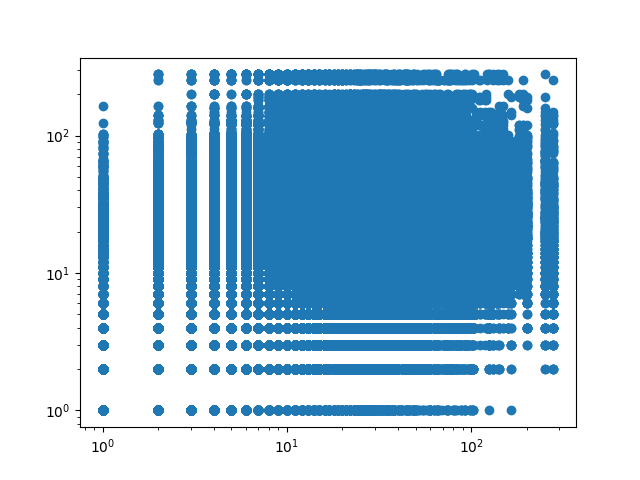
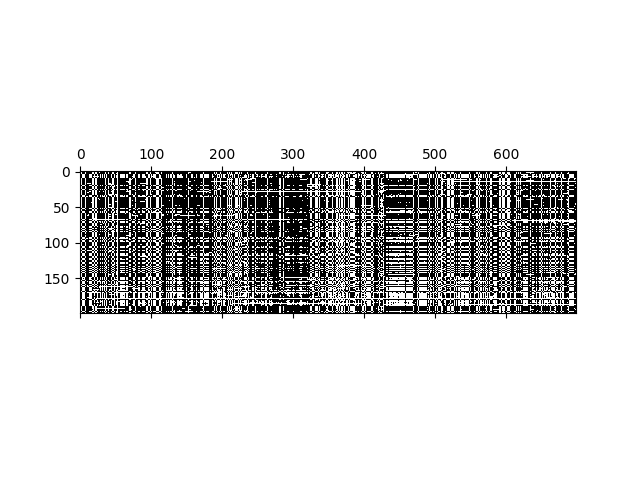
Add files via upload

diff --git a/Lab6/congress.py b/Lab6/congress.py
@@ -1,0 +1,89 @@
+#!/usr/bin/env python3
+# -*- coding: utf-8 -*-
+"""
+TSKS33 hands-on session 6 task 5
+
+Graphical Lasso applied to U.S. Congress voting data
+
+Erik G. Larsson, 2020
+"""
+
+import sys
+sys.path.append("/courses/TSKS33/ht2024/common-functions")
+
+import pandas as pd
+import numpy as np
+import matplotlib.pyplot as plt
+from sklearn.covariance import GraphicalLasso
+from sklearn.covariance import graphical_lasso
+from save_Gephi_gexf import save_nparray_Gephi_gexf_colors
+#import scipy.io as sio
+
+# Setup
+VOTE = {"Nay": 1, "Yea": 2, "Not Voting": -1, "No": 1, "Aye": 2, "Present": -2}
+PARTY = {"Republican": 1, "Democrat": 0}
+
+PID = {} # senator ID -> index starting at zero
+NAMES = {} # senator name
+partys={} # senate party membership
+
+# Read and parse the voting data
+N = 0
+X = np.zeros([0,0],dtype=int)  # array with votes
+for i in range(0,699):
+    data=pd.read_pickle('/courses/TSKS33/ht2024/data/US-congress-votes/vote-116-2019-H'+str(i)) 
+    data.drop(columns=['state','district'],inplace=True)
+    votes = data.to_numpy()
+        
+    X=np.append(X,np.zeros([N,1],dtype=int),axis=1)
+
+    # parse the database
+    for j in range(votes.shape[0]):
+        pid = votes[j,0]
+        if pid in PID:
+            n=PID[pid]
+        else:
+            n=N
+            PID[pid]=n
+            NAMES[n]=votes[j,2]
+            partys[n]=PARTY[votes[j,3]]
+            N=N+1
+            X=np.append(X,np.zeros([1,i+1],dtype=int),axis=0)
+          #  print(vote_matrix)
+    #    print(pid,n)
+
+        X[n,i] = VOTE[votes[j,1]]
+     #   print(vote_matrix)
+
+print(N)
+        
+# Extract subset of senators, and pre-process data.
+# Treat missing votes as "no"
+Y = np.zeros_like(X,dtype=float)
+Y[X==1]=0 # no -> 0
+Y[X==2]=1 # yes -> 1
+N=200
+Y=Y[0:N,:]  
+
+# Visually inspect the raw data
+plt.spy(Y)
+plt.show()
+
+# Use the Banerjee heuristic to form the sample covariance
+Z=np.cov(Y,bias=1)  + 1/3.0 * np.eye(N)
+#Z=np.dot(Y,np.transpose(Y))/N  + 1/3.0 * np.eye(N)
+
+# Run graphical Lasso on sample covariance matrix Z
+covariance, precision =graphical_lasso(Z,alpha=.2,max_iter=100)
+#print(np.around(precision, decimals=3)) 
+
+# Color the nodes according to ground truth (republican/democrat)
+v=np.zeros([N,1],dtype=int)
+for i in range(N):
+    v[i]=partys[i]
+
+save_nparray_Gephi_gexf_colors(precision,'congress1111.gexf',0.0000000000001,v)
+#print(np.nonzero(precision)[0].shape)
+
+plt.spy(precision)
+plt.show()

diff --git a/Lab6/TCGA.py b/Lab6/TCGA.py
@@ -1,0 +1,57 @@
+#!/usr/bin/env python3
+# -*- coding: utf-8 -*-
+"""
+TSKS33 hands-on session 6 task 5
+
+Graphical Lasso applied to TCGA data
+
+Erik G. Larsson, 2020
+"""
+
+import sys
+sys.path.append("/courses/TSKS33/ht2024/common-functions")
+
+import pandas as pd
+import numpy as np
+from sklearn.covariance import GraphicalLasso
+from save_Gephi_gexf import save_nparray_Gephi_gexf_colors
+import matplotlib.pyplot as plt
+
+TPATH = '/courses/TSKS33/ht2024/data/'
+
+# read TCGA data
+data=pd.read_csv(TPATH+'TCGA-PANCAN-HiSeq-801x20531/data.csv')
+data.drop(data.columns[0],axis=1,inplace=True)
+X=data.to_numpy()
+
+# select a subset
+N1=0
+N2=800
+#Y=np.delete(X,range(50,500),0)
+Y=X[N1:N2,:]
+plt.spy(Y)
+plt.show()
+N=Y.shape[0]
+print(N)
+
+cov_full=np.dot(Y,np.transpose(Y))
+print(np.linalg.cond(cov_full))
+
+# run graphical Lasso
+cov = GraphicalLasso(15).fit(np.transpose(Y))
+plt.spy(cov.precision_)
+plt.show()
+
+# read labels to get ground truth
+labels=pd.read_csv(TPATH+'TCGA-PANCAN-HiSeq-801x20531/labels.csv')
+labels_array=labels['Class'].to_numpy()
+labels_array=labels_array[N1:N2]
+#labels_array=np.delete(labels_array_a,range(50,500),0)
+labels_int=dict(zip(np.unique(labels_array),range(N)))
+print(labels_int)
+
+v=np.zeros((N,1))
+for n in range(N):
+    v[n]=labels_int[labels_array[n]]
+    
+save_nparray_Gephi_gexf_colors(cov.precision_,'TCGA.gexf',0.0000000000001,v)

diff --git a/Lab6/download-US-congress-votes.py b/Lab6/download-US-congress-votes.py
@@ -1,0 +1,16 @@
+#!/usr/bin/env python3
+# -*- coding: utf-8 -*-
+"""
+TSKS33 hands-on session 6 task 5
+
+Download U.S. congress votes and save to disk
+
+Erik G. Larsson, 2020
+"""
+
+import pandas as pd
+
+for i in range(200):
+    url = "https://www.govtrack.us/congress/votes/116-2019/h"+str(i+3)+"/export/csv"
+    data=pd.read_csv(url,skiprows=1)
+    data.to_pickle('./vote-116-2019-H'+str(i))
